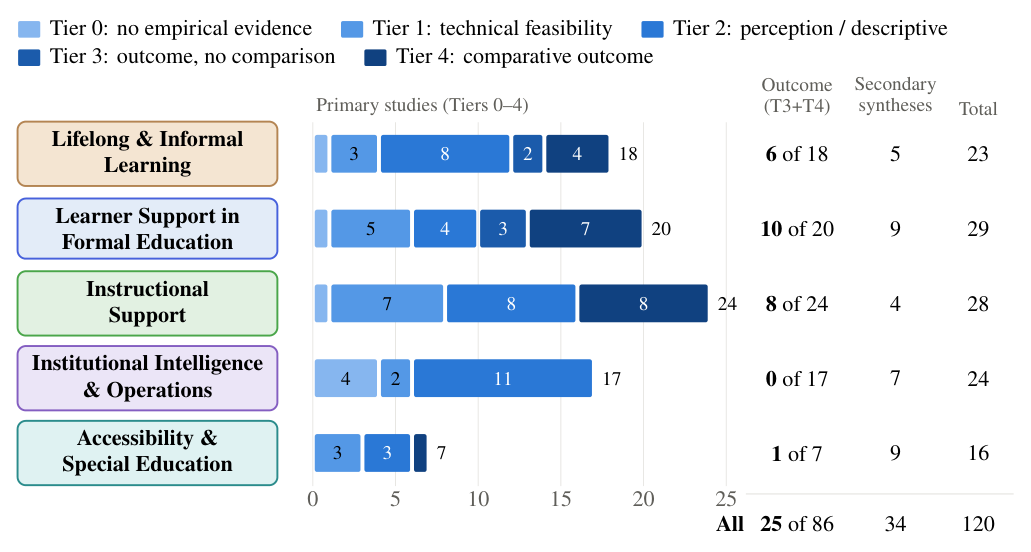
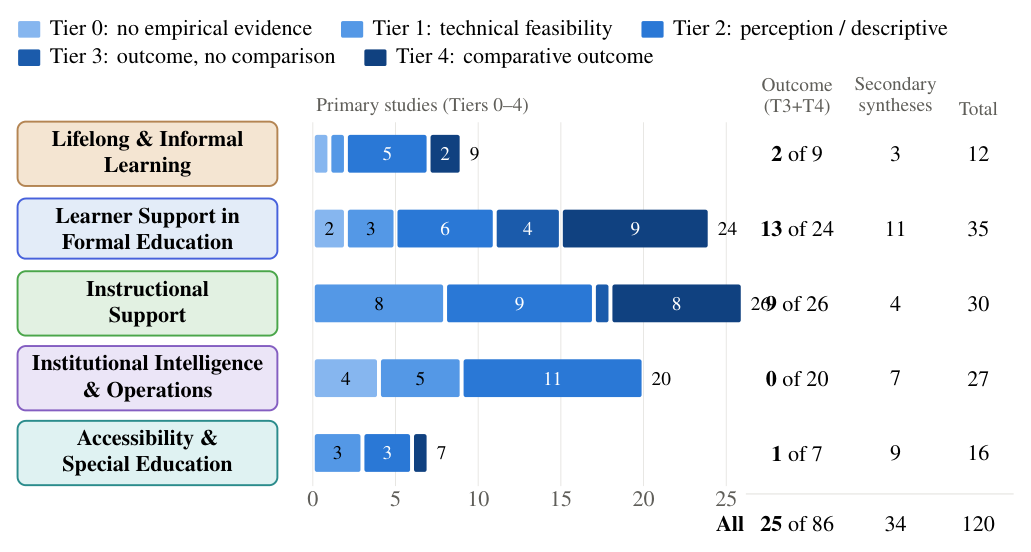
Update study domain labels

diff --git a/figures/evidence_maturity_by_domain.tex b/figures/evidence_maturity_by_domain.tex
@@ -38,55 +38,53 @@
 \node[anchor=north, text=inkmuted, inner sep=1.5pt] at (9.00,-4.82) {\footnotesize 25};
 \node[draw=orangeborder, fill=orangefill, line width=0.7pt, rounded corners=3pt, minimum width=3.3cm, minimum height=0.72cm, align=center, font=\footnotesize\bfseries] at (1.65,-0.60) {Lifelong \& Informal\\Learning};
 \fill[tier0, rounded corners=0.8pt] (3.775,-0.84) rectangle (3.935,-0.36);
-\fill[tier1, rounded corners=0.8pt] (3.985,-0.84) rectangle (4.565,-0.36);
-\node[text=black, inner sep=0pt] at (4.275,-0.60) {\scriptsize 3};
-\fill[tier2, rounded corners=0.8pt] (4.615,-0.84) rectangle (6.245,-0.36);
-\node[text=white, inner sep=0pt] at (5.430,-0.60) {\scriptsize 8};
-\fill[tier3, rounded corners=0.8pt] (6.295,-0.84) rectangle (6.665,-0.36);
-\node[text=white, inner sep=0pt] at (6.480,-0.60) {\scriptsize 2};
-\fill[tier4, rounded corners=0.8pt] (6.715,-0.84) rectangle (7.505,-0.36);
-\node[text=white, inner sep=0pt] at (7.110,-0.60) {\scriptsize 4};
-\node[anchor=west, inner sep=1pt] at (7.59,-0.60) {\scriptsize 18};
-\node[inner sep=1pt] at (9.90,-0.60) {\footnotesize\textbf{6} of 18};
-\node[inner sep=1pt] at (11.15,-0.60) {\footnotesize 5};
-\node[inner sep=1pt] at (12.20,-0.60) {\footnotesize 23};
+\fill[tier1, rounded corners=0.8pt] (3.985,-0.84) rectangle (4.145,-0.36);
+\fill[tier2, rounded corners=0.8pt] (4.195,-0.84) rectangle (5.195,-0.36);
+\node[text=white, inner sep=0pt] at (4.695,-0.60) {\scriptsize 5};
+\fill[tier4, rounded corners=0.8pt] (5.245,-0.84) rectangle (5.615,-0.36);
+\node[text=white, inner sep=0pt] at (5.430,-0.60) {\scriptsize 2};
+\node[anchor=west, inner sep=1pt] at (5.70,-0.60) {\scriptsize 9};
+\node[inner sep=1pt] at (9.90,-0.60) {\footnotesize\textbf{2} of 9};
+\node[inner sep=1pt] at (11.15,-0.60) {\footnotesize 3};
+\node[inner sep=1pt] at (12.20,-0.60) {\footnotesize 12};
 \node[draw=blueborder, fill=bluefill, line width=0.7pt, rounded corners=3pt, minimum width=3.3cm, minimum height=0.72cm, align=center, font=\footnotesize\bfseries] at (1.65,-1.55) {Learner Support in\\Formal Education};
-\fill[tier0, rounded corners=0.8pt] (3.775,-1.79) rectangle (3.935,-1.31);
-\fill[tier1, rounded corners=0.8pt] (3.985,-1.79) rectangle (4.985,-1.31);
-\node[text=black, inner sep=0pt] at (4.485,-1.55) {\scriptsize 5};
-\fill[tier2, rounded corners=0.8pt] (5.035,-1.79) rectangle (5.825,-1.31);
-\node[text=white, inner sep=0pt] at (5.430,-1.55) {\scriptsize 4};
-\fill[tier3, rounded corners=0.8pt] (5.875,-1.79) rectangle (6.455,-1.31);
-\node[text=white, inner sep=0pt] at (6.165,-1.55) {\scriptsize 3};
-\fill[tier4, rounded corners=0.8pt] (6.505,-1.79) rectangle (7.925,-1.31);
-\node[text=white, inner sep=0pt] at (7.215,-1.55) {\scriptsize 7};
-\node[anchor=west, inner sep=1pt] at (8.01,-1.55) {\scriptsize 20};
-\node[inner sep=1pt] at (9.90,-1.55) {\footnotesize\textbf{10} of 20};
-\node[inner sep=1pt] at (11.15,-1.55) {\footnotesize 9};
-\node[inner sep=1pt] at (12.20,-1.55) {\footnotesize 29};
+\fill[tier0, rounded corners=0.8pt] (3.775,-1.79) rectangle (4.145,-1.31);
+\node[text=black, inner sep=0pt] at (3.960,-1.55) {\scriptsize 2};
+\fill[tier1, rounded corners=0.8pt] (4.195,-1.79) rectangle (4.775,-1.31);
+\node[text=black, inner sep=0pt] at (4.485,-1.55) {\scriptsize 3};
+\fill[tier2, rounded corners=0.8pt] (4.825,-1.79) rectangle (6.035,-1.31);
+\node[text=white, inner sep=0pt] at (5.430,-1.55) {\scriptsize 6};
+\fill[tier3, rounded corners=0.8pt] (6.085,-1.79) rectangle (6.875,-1.31);
+\node[text=white, inner sep=0pt] at (6.480,-1.55) {\scriptsize 4};
+\fill[tier4, rounded corners=0.8pt] (6.925,-1.79) rectangle (8.765,-1.31);
+\node[text=white, inner sep=0pt] at (7.845,-1.55) {\scriptsize 9};
+\node[anchor=west, inner sep=1pt] at (8.85,-1.55) {\scriptsize 24};
+\node[inner sep=1pt] at (9.90,-1.55) {\footnotesize\textbf{13} of 24};
+\node[inner sep=1pt] at (11.15,-1.55) {\footnotesize 11};
+\node[inner sep=1pt] at (12.20,-1.55) {\footnotesize 35};
 \node[draw=greenborder, fill=greenfill, line width=0.7pt, rounded corners=3pt, minimum width=3.3cm, minimum height=0.72cm, align=center, font=\footnotesize\bfseries] at (1.65,-2.50) {Instructional\\Support};
-\fill[tier0, rounded corners=0.8pt] (3.775,-2.74) rectangle (3.935,-2.26);
-\fill[tier1, rounded corners=0.8pt] (3.985,-2.74) rectangle (5.405,-2.26);
-\node[text=black, inner sep=0pt] at (4.695,-2.50) {\scriptsize 7};
-\fill[tier2, rounded corners=0.8pt] (5.455,-2.74) rectangle (7.085,-2.26);
-\node[text=white, inner sep=0pt] at (6.270,-2.50) {\scriptsize 8};
-\fill[tier4, rounded corners=0.8pt] (7.135,-2.74) rectangle (8.765,-2.26);
-\node[text=white, inner sep=0pt] at (7.950,-2.50) {\scriptsize 8};
-\node[anchor=west, inner sep=1pt] at (8.85,-2.50) {\scriptsize 24};
-\node[inner sep=1pt] at (9.90,-2.50) {\footnotesize\textbf{8} of 24};
+\fill[tier1, rounded corners=0.8pt] (3.775,-2.74) rectangle (5.405,-2.26);
+\node[text=black, inner sep=0pt] at (4.590,-2.50) {\scriptsize 8};
+\fill[tier2, rounded corners=0.8pt] (5.455,-2.74) rectangle (7.295,-2.26);
+\node[text=white, inner sep=0pt] at (6.375,-2.50) {\scriptsize 9};
+\fill[tier3, rounded corners=0.8pt] (7.345,-2.74) rectangle (7.505,-2.26);
+\fill[tier4, rounded corners=0.8pt] (7.555,-2.74) rectangle (9.185,-2.26);
+\node[text=white, inner sep=0pt] at (8.370,-2.50) {\scriptsize 8};
+\node[anchor=west, inner sep=1pt] at (9.27,-2.50) {\scriptsize 26};
+\node[inner sep=1pt] at (9.90,-2.50) {\footnotesize\textbf{9} of 26};
 \node[inner sep=1pt] at (11.15,-2.50) {\footnotesize 4};
-\node[inner sep=1pt] at (12.20,-2.50) {\footnotesize 28};
+\node[inner sep=1pt] at (12.20,-2.50) {\footnotesize 30};
 \node[draw=purpleborder, fill=purplefill, line width=0.7pt, rounded corners=3pt, minimum width=3.3cm, minimum height=0.72cm, align=center, font=\footnotesize\bfseries] at (1.65,-3.45) {Institutional Intelligence\\\& Operations};
 \fill[tier0, rounded corners=0.8pt] (3.775,-3.69) rectangle (4.565,-3.21);
 \node[text=black, inner sep=0pt] at (4.170,-3.45) {\scriptsize 4};
-\fill[tier1, rounded corners=0.8pt] (4.615,-3.69) rectangle (4.985,-3.21);
-\node[text=black, inner sep=0pt] at (4.800,-3.45) {\scriptsize 2};
-\fill[tier2, rounded corners=0.8pt] (5.035,-3.69) rectangle (7.295,-3.21);
-\node[text=white, inner sep=0pt] at (6.165,-3.45) {\scriptsize 11};
-\node[anchor=west, inner sep=1pt] at (7.38,-3.45) {\scriptsize 17};
-\node[inner sep=1pt] at (9.90,-3.45) {\footnotesize\textbf{0} of 17};
+\fill[tier1, rounded corners=0.8pt] (4.615,-3.69) rectangle (5.615,-3.21);
+\node[text=black, inner sep=0pt] at (5.115,-3.45) {\scriptsize 5};
+\fill[tier2, rounded corners=0.8pt] (5.665,-3.69) rectangle (7.925,-3.21);
+\node[text=white, inner sep=0pt] at (6.795,-3.45) {\scriptsize 11};
+\node[anchor=west, inner sep=1pt] at (8.01,-3.45) {\scriptsize 20};
+\node[inner sep=1pt] at (9.90,-3.45) {\footnotesize\textbf{0} of 20};
 \node[inner sep=1pt] at (11.15,-3.45) {\footnotesize 7};
-\node[inner sep=1pt] at (12.20,-3.45) {\footnotesize 24};
+\node[inner sep=1pt] at (12.20,-3.45) {\footnotesize 27};
 \node[draw=tealborder, fill=tealfill, line width=0.7pt, rounded corners=3pt, minimum width=3.3cm, minimum height=0.72cm, align=center, font=\footnotesize\bfseries] at (1.65,-4.40) {Accessibility \&\\Special Education};
 \fill[tier1, rounded corners=0.8pt] (3.775,-4.64) rectangle (4.355,-4.16);
 \node[text=black, inner sep=0pt] at (4.065,-4.40) {\scriptsize 3};

diff --git a/scripts/reproduce_all.py b/scripts/reproduce_all.py
@@ -3,7 +3,8 @@
 Standard library only. Run from the package root:   python scripts/reproduce_all.py
 
 Sections
-  1. Domain / subcategory layer re-derived from the corpus manifest categories.
+  1. Domain / subcategory layer re-derived from the corpus manifest categories plus the post-review reclassification list
+     (data/domain_reclassification.csv, 14 studies).
   2. Record-count chain, tier counts and the two summary tables, recomputed from data/ and compared with results/reported_results.json.
   3. The reported sampling design (the draw itself cannot be replayed: its inputs are not released).
   4. Aggregate agreement statistics, recomputed from the released aggregate agreement table (NOT from study-level codes, which are withheld).
@@ -73,6 +74,19 @@ def layer(rid, category, subcategory):
     return d, subcategory
 
 
+RECLASS = {r["record_id"]: r for r in read_csv("data/domain_reclassification.csv")}
+
+
+def final_layer(rid, category, subcategory):
+    """Manifest-derived layer, then the explicit post-review reclassification list."""
+    d, s = layer(rid, category, subcategory)
+    if rid in RECLASS:
+        x = RECLASS[rid]
+        assert (d, s) == (x["original_domain"], x["original_subcategory"]), rid
+        return x["revised_domain"], x["revised_subcategory"]
+    return d, s
+
+
 def tier_counts(rows):
     c = Counter(("S" if r["evidence_tier"] == "S" else "T" + r["evidence_tier"]) for r in rows)
     out = {k: c.get(k, 0) for k in TIERS}
@@ -88,11 +102,13 @@ def section_counts():
 
     bad_dom = bad_sub = 0
     for r in recs:
-        d, s_ = layer(r["record_id"], r["manifest_category"], r["manifest_subcategory"])
+        d, s_ = final_layer(r["record_id"], r["manifest_category"], r["manifest_subcategory"])
         bad_dom += d != r["review_domain"]
         bad_sub += s_ != r["review_subcategory"]
-    check("1. domain re-derived from manifest categories for all 150 records", bad_dom == 0, f"{bad_dom} mismatches")
-    check("1. subcategory re-derived from the manifest and the explicit Governance list for all 150 records", bad_sub == 0, f"{bad_sub} mismatches")
+    check("1. domain re-derived from manifest categories and the reclassification list for all 150 records", bad_dom == 0, f"{bad_dom} mismatches")
+    check("1. subcategory re-derived from the manifest, the explicit Governance list and the reclassification list for all 150 records", bad_sub == 0, f"{bad_sub} mismatches")
+    check("1. reclassification list: 14 synthesized records, each with its manifest-derived original label",
+          len(RECLASS) == 14 and all(any(r["record_id"] == k and r["status"] == "synthesized" for r in recs) for k in RECLASS))
     gov_ids = {r["record_id"] for r in recs if r["review_subcategory"] == GOVN}
     check("1. the Governance subcategory is exactly the nine records on the explicit list", gov_ids == GOVERNANCE_RECORDS, str(sorted(gov_ids)))
 
@@ -140,11 +156,11 @@ def section_counts():
         byd[r["review_domain"]].append(r)
         sub[(r["review_domain"], r["review_subcategory"])].append(r)
     D = {d: tier_counts(byd[d]) for d in DOMAIN_NAME}
-    check("2. D1 6 of 18; D2 10 of 20 primary studies with outcome evidence",
-          (D["D1"]["Outcome"], D["D1"]["N"] - D["D1"]["S"], D["D2"]["Outcome"], D["D2"]["N"] - D["D2"]["S"]) == (6, 18, 10, 20))
+    check("2. D1 2 of 9; D2 13 of 24 primary studies with outcome evidence",
+          (D["D1"]["Outcome"], D["D1"]["N"] - D["D1"]["S"], D["D2"]["Outcome"], D["D2"]["N"] - D["D2"]["S"]) == (2, 9, 13, 24))
     af = tier_counts(sub[("D3", "Assessment & Feedback")])
-    check("2. D3: 8 comparative studies, no T3; 6 of them in Assessment & Feedback", (D["D3"]["T4"], D["D3"]["T3"], af["T4"]) == (8, 0, 6))
-    check("2. D4: 0 of 17 (T2 11, T1 2, T0 4)", (D["D4"]["Outcome"], D["D4"]["N"] - D["D4"]["S"], D["D4"]["T2"], D["D4"]["T1"], D["D4"]["T0"]) == (0, 17, 11, 2, 4))
+    check("2. D3: 8 comparative studies, 1 T3; 6 of the comparative studies in Assessment & Feedback", (D["D3"]["T4"], D["D3"]["T3"], af["T4"]) == (8, 1, 6))
+    check("2. D4: 0 of 20 (T2 11, T1 5, T0 4)", (D["D4"]["Outcome"], D["D4"]["N"] - D["D4"]["S"], D["D4"]["T2"], D["D4"]["T1"], D["D4"]["T0"]) == (0, 20, 11, 5, 4))
     check("2. D5: 1 of 7 primary studies; 9 of 16 are secondary syntheses", (D["D5"]["Outcome"], D["D5"]["N"] - D["D5"]["S"], D["D5"]["S"], D["D5"]["N"]) == (1, 7, 9, 16))
     gaps = sorted(s for (d, s), rows in sub.items() if tier_counts(rows)["Outcome"] == 0)
     check("2. six subcategories without outcome evidence", gaps == sorted(R["subcategories_without_outcome_evidence"]), str(gaps))
@@ -166,20 +182,20 @@ def section_counts():
         syn = sum(1 for r in drec if r["status"] in ("synthesized", "synthesized_duplicate_record"))
         if (len(drec), syn) != (t1[name]["records"], t1[name]["synthesized"]):
             bad1.append((d, len(drec), syn))
-    check("2. corpus-structure table: records and records synthesized per domain (24/23, 29/29, 31/29, 44/24, 22/16)", not bad1, str(bad1))
+    check("2. corpus-structure table: records and records synthesized per domain (13/12, 35/35, 33/31, 47/27, 22/16)", not bad1, str(bad1))
     for d in ("D1", "D2", "D3", "D5"):
         c = Counter(r["review_subcategory"] for r in recs if r["review_domain"] == d)
         check(f"2. corpus-structure table: records per subcategory, {d}", dict(c) == t1[DOMAIN_NAME[d]]["records_by_subcategory"], str(dict(c)))
     d4 = [r for r in recs if r["review_domain"] == "D4"]
     c4 = Counter(r["review_subcategory"] for r in d4)
     rep = t1[DOMAIN_NAME["D4"]]["records_by_subcategory"]
-    check("2. Domain 4, all 44 records: Operations / Governance equals the reported 35 / 9", (c4[OPS], c4[GOVN]) == (rep[OPS], rep[GOVN]) == (35, 9), str(dict(c4)))
+    check("2. Domain 4, all 47 records: Operations / Governance equals the reported 38 / 9", (c4[OPS], c4[GOVN]) == (rep[OPS], rep[GOVN]) == (38, 9), str(dict(c4)))
     sy = Counter(r["review_subcategory"] for r in d4 if r["status"] in ("synthesized", "excluded_topic_eligibility", "excluded_corpus_integrity"))
-    check("2. Domain 4 records synthesized before the topic-eligibility and integrity exclusions (28 records): 19 Operations / 9 Governance", (sy[OPS], sy[GOVN]) == (19, 9), str(dict(sy)))
+    check("2. Domain 4 records synthesized before the topic-eligibility and integrity exclusions (31 records): 22 Operations / 9 Governance", (sy[OPS], sy[GOVN]) == (22, 9), str(dict(sy)))
     sa = [r for r in d4 if r["status"] == "set_aside_at_corpus_construction"]
     check("2. Domain 4 records set aside at corpus construction (16 records) are Operations by the default rule", len(sa) == 16 and all(r["review_subcategory"] == OPS for r in sa))
     uq = Counter(r["review_subcategory"] for r in cls if r["review_domain"] == "D4")
-    check("2. Domain 4 unique final studies (24 studies, not records): 17 Operations / 7 Governance", (uq[OPS], uq[GOVN]) == (17, 7), str(dict(uq)))
+    check("2. Domain 4 unique final studies (27 studies, not records): 20 Operations / 7 Governance", (uq[OPS], uq[GOVN]) == (20, 7), str(dict(uq)))
 
 
 # ------------------------------------------------------------------------------------------------ 3

diff --git a/README.md b/README.md
@@ -23,17 +23,17 @@ The method is summarized in [`CODEBOOK.md`](CODEBOOK.md); the rubric is [`RUBRIC
 
 1. **Few studies measure an outcome.** Of the 86 primary studies, 25 (29.1%) measure a learning or practice outcome objectively, and 20 (23.3%) compare it with an alternative condition.
 2. **Descriptive and feasibility evidence dominates.** Perception or descriptive practice is the most common tier (34 studies, 39.5%), followed by technical feasibility (20, 23.3%); 7 studies (8.1%) report no empirical evidence.
-3. **Evidence is uneven across domains.** Primary studies with a measured outcome: learner support in formal education 10 of 20, instructional support 8 of 24, lifelong and informal learning 6 of 18, accessibility 1 of 7, institutional operations and governance **0 of 17**.
+3. **Evidence is uneven across domains.** Primary studies with a measured outcome: learner support in formal education 13 of 24, instructional support 9 of 26, lifelong and informal learning 2 of 9, accessibility 1 of 7, institutional operations and governance **0 of 20**.
 4. **Six subcategories contain no measured outcome:** Professional Upskilling, Teaching Practice & Rehearsal, Academic & Administrative Operations, AI Governance & Institutional Policy, Assistive Interfaces and Barrier Reduction.
 
 ## Results at a glance
 
 | Domain | Studies | Primary | T0 | T1 | T2 | T3 | T4 | S | Measured outcome (T3+T4) |
 |---|--:|--:|--:|--:|--:|--:|--:|--:|--:|
-| D1 Lifelong & Informal Learning | 23 | 18 | 1 | 3 | 8 | 2 | 4 | 5 | 6 |
-| D2 Learner Support in Formal Education | 29 | 20 | 1 | 5 | 4 | 3 | 7 | 9 | 10 |
-| D3 Instructional Support | 28 | 24 | 1 | 7 | 8 | 0 | 8 | 4 | 8 |
-| D4 Institutional Intelligence & Operations | 24 | 17 | 4 | 2 | 11 | 0 | 0 | 7 | 0 |
+| D1 Lifelong & Informal Learning | 12 | 9 | 1 | 1 | 5 | 0 | 2 | 3 | 2 |
+| D2 Learner Support in Formal Education | 35 | 24 | 2 | 3 | 6 | 4 | 9 | 11 | 13 |
+| D3 Instructional Support | 30 | 26 | 0 | 8 | 9 | 1 | 8 | 4 | 9 |
+| D4 Institutional Intelligence & Operations | 27 | 20 | 4 | 5 | 11 | 0 | 0 | 7 | 0 |
 | D5 Accessibility & Special Education | 16 | 7 | 0 | 3 | 3 | 0 | 1 | 9 | 1 |
 | **All domains** | **120** | **86** | **7** | **20** | **34** | **5** | **20** | **34** | **25** |
 
@@ -98,12 +98,13 @@ Each check prints `PASS`, `FAIL` or `NOT TESTABLE`; the scripts do not write int
 
 ## Known limitations
 
-* **Domain 4 subcategories.** The 44 Domain 4 records split 35 *Academic & Administrative Operations* / 9 *AI Governance & Institutional Policy* (the taxonomy's
-  explicit nine-record Governance list; every other Domain 4 record, including the 16 set aside at corpus construction, is Operations by default). Of the 28 records
-  synthesized before the topic-eligibility and integrity exclusions, 19 are Operations and 9 Governance; the 24 unique final studies split 17 and 7. These are different
+* **Domain 4 subcategories.** The 47 Domain 4 records split 38 *Academic & Administrative Operations* / 9 *AI Governance & Institutional Policy* (the taxonomy's
+  explicit nine-record Governance list; every other Domain 4 record, including the 16 set aside at corpus construction, is Operations by default). Of the 31 records
+  synthesized before the topic-eligibility and integrity exclusions, 22 are Operations and 9 Governance; the 27 unique final studies split 20 and 7. These are different
   counting units and are checked separately. One record (a review of telecommunications and AI infrastructure for education) was placed in Operations because its main
   subject is the infrastructure and applications that enable AI-supported education, with ethics and governance as one section of it. That is a classification judgement:
-  placing it in Governance instead would change the record split to 34 / 10 and the final-study split to 16 / 8.
+  placing it in Governance instead would change the record split to 37 / 10 and the final-study split to 19 / 8.
+* **Domain reclassification.** After peer review, a co-author coded the domain of a stratified random sample of 30 primary studies without the original labels. Disagreements were resolved against the written domain definitions and the source texts, and 13 studies were reclassified; a later check of the outcome studies against their sources moved one more. `data/domain_reclassification.csv` lists all 14 with their original and revised labels. The agreement statistics of that check refer to the original labels and are reported in the paper.
 * **Search not recorded.** The corpus is not a systematic sample and its assembly cannot be reproduced.
 * **One classifier for most studies.** Outside the 29 validated studies, classifications come from the AI classification plus the checks above, not from a second coder.
   The AI classification ran in fresh sessions instructed to use only the coding bundle; isolation was instructed and checked afterwards, not enforced technically.
@@ -119,6 +120,7 @@ Each check prints `PASS`, `FAIL` or `NOT TESTABLE`; the scripts do not write int
 | `CODEBOOK.md` | Classification method: decision sequence, tiers, design labels, interpretive rules, domains |
 | `DATA_DICTIONARY.md` | Every column of every data file, and how the files were produced |
 | `DATA_AVAILABILITY.md` | What is and is not released, and why; the statement for the paper |
+| `data/domain_reclassification.csv` | The 14 studies reclassified after peer review: original and revised domain and subcategory, and the rule applied |
 | `data/corpus_records.csv` | The 150 records: manifest category, review domain, status, exclusion category and its basis |
 | `data/study_classifications.csv` | Final classification (domain, subcategory, tier, design label) of the 120 studies |
 | `data/study_metadata.csv` | Title, year, venue and DOI of each of the 120 studies |

diff --git a/DATA_DICTIONARY.md b/DATA_DICTIONARY.md
@@ -10,7 +10,7 @@ All files are UTF-8 CSV with a header row, unless noted.
 |---|---|
 | `record_id` | Record number from the corpus numbering (text: some are `1.1-145` or `1.2`); unique |
 | `manifest_category`, `manifest_subcategory` | The four-category scheme of the original corpus manifest |
-| `review_domain` | D1–D5, derived from the manifest category (`CODEBOOK.md`) |
+| `review_domain` | D1–D5, derived from the manifest category (`CODEBOOK.md`), then revised for the 14 studies in `domain_reclassification.csv` |
 | `review_subcategory` | Subcategory within the review domain. For Domain 4, the nine records on the taxonomy's explicit Governance list are Governance and every other record is Operations by default, including the 16 set aside at corpus construction |
 | `status` | `synthesized` (120) · `synthesized_duplicate_record` (1, a second record of an article already counted) · `excluded_topic_eligibility` (9) · `excluded_corpus_integrity` (2) · `set_aside_at_corpus_construction` (18) |
 | `study_id` | Public study identifier `S001`–`S120` (assigned in corpus order; shared by the two records of the duplicated article); empty for records without a classification |

diff --git a/CODEBOOK.md b/CODEBOOK.md
@@ -71,6 +71,9 @@ Formal Education, **D3** Instructional Support, **D4** Institutional Intelligenc
 and the manifest's instructional-support records, plus two educator-facing records from its workflow-automation subcategory) and D4 (the
 rest). The D4 split between *Academic & Administrative Operations* and *AI Governance & Institutional Policy* follows an explicit list of nine
 record numbers, given in `scripts/reproduce_all.py`. Domain 4 records not on that list, including those set aside at corpus construction, are Operations by default (see the README).
+After peer review, 14 studies were reclassified by applying the written domain definitions to the source texts, following a second-coder
+check of a stratified sample and a source check of the outcome studies; `data/domain_reclassification.csv` lists them, and
+`scripts/reproduce_all.py` applies that list after the mapping above.
 
 ## What was recorded but is not released
 
